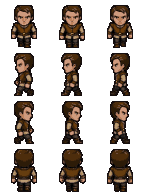
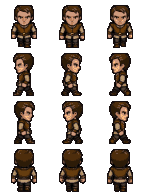
[gemini] AR-010 Adult male human dynamic alternating side walk strides

diff --git a/tools/update_male_walk_strides.js b/tools/update_male_walk_strides.js
@@ -1,0 +1,67 @@
+'use strict';
+
+const fs = require('fs');
+const path = require('path');
+const { decodePNG } = require('./png_read');
+const {
+    extractFrameFromCell,
+    mirrorFrame,
+    assemble12SpriteSheet,
+    saveSheetAndSidecar
+} = require('./build_pro_human_male');
+
+const imgWalk = decodePNG(fs.readFileSync('art/raw/human_male_pro_4d_walk.png'));
+const imgHaul = decodePNG(fs.readFileSync('art/raw/human_male_pro_4d_haul.png'));
+
+// --- 1. WALK (Dynamic Alternating Strides) ---
+// South
+const south0 = extractFrameFromCell(imgWalk, 0, 234, 0, 258, 43);
+const south1 = extractFrameFromCell(imgWalk, 234, 470, 0, 258, 43);
+const south2 = extractFrameFromCell(imgWalk, 470, 704, 0, 258, 43);
+
+// East: Col 0 = Stride A, Col 1 = Stand/Passing, Col 2 = Stride B
+const east0 = extractFrameFromCell(imgWalk, 704, 938, 0, 258, 43);   // R0_C3: Stride A
+const east1 = extractFrameFromCell(imgWalk, 0, 234, 258, 511, 43);    // R1_C0: Feet together (Stand)
+const east2 = extractFrameFromCell(imgWalk, 938, 1172, 258, 511, 43); // R1_C4: Stride B
+
+// North
+const north0 = extractFrameFromCell(imgWalk, 0, 234, 511, 767, 43);
+const north1 = extractFrameFromCell(imgWalk, 470, 704, 511, 767, 43);
+const north2 = extractFrameFromCell(imgWalk, 234, 470, 511, 767, 43);
+
+const walkSheet = assemble12SpriteSheet({
+    S: [south0, south1, south2],
+    W: [east0, east1, east2].map(mirrorFrame),
+    E: [east0, east1, east2],
+    N: [north0, north1, north2]
+});
+
+saveSheetAndSidecar(walkSheet, 'Human_Male_Walk', 'Walk', { walk: [0, 1, 2, 1], stand: [1] });
+saveSheetAndSidecar(walkSheet, 'Human_Male',      'Walk', { walk: [0, 1, 2, 1], stand: [1] });
+saveSheetAndSidecar(walkSheet, 'Human_Male_Adult','Walk', { walk: [0, 1, 2, 1], stand: [1] });
+saveSheetAndSidecar(walkSheet, 'Human',           'Walk', { walk: [0, 1, 2, 1], stand: [1] });
+
+// --- 2. HAUL (Dynamic Alternating Strides) ---
+const haulSouth0 = extractFrameFromCell(imgHaul, 0, 234, 0, 258, 43);
+const haulSouth1 = extractFrameFromCell(imgHaul, 234, 470, 0, 258, 43);
+const haulSouth2 = extractFrameFromCell(imgHaul, 470, 704, 0, 258, 43);
+
+// East Haul: Stride A (Col 1), Passing (Col 0), Stride B (Col 4)
+const haulEast0 = extractFrameFromCell(imgHaul, 234, 470, 258, 511, 43); // Stride A
+const haulEast1 = extractFrameFromCell(imgHaul, 0, 234, 258, 511, 43);   // Stand / passing
+const haulEast2 = extractFrameFromCell(imgHaul, 938, 1172, 258, 511, 43);// Stride B
+
+const haulNorth0 = extractFrameFromCell(imgHaul, 0, 234, 511, 767, 43);
+const haulNorth1 = extractFrameFromCell(imgHaul, 234, 470, 511, 767, 43);
+const haulNorth2 = extractFrameFromCell(imgHaul, 470, 704, 511, 767, 43);
+
+const haulSheet = assemble12SpriteSheet({
+    S: [haulSouth0, haulSouth1, haulSouth2],
+    W: [haulEast0, haulEast1, haulEast2].map(mirrorFrame),
+    E: [haulEast0, haulEast1, haulEast2],
+    N: [haulNorth0, haulNorth1, haulNorth2]
+});
+
+saveSheetAndSidecar(haulSheet, 'Human_Male_Haul', 'Haul', { haul: [0, 1, 2, 1], carry: [1], stand: [1] });
+
+console.log('Successfully updated Walk and Haul with dynamic alternating leg animation!');
